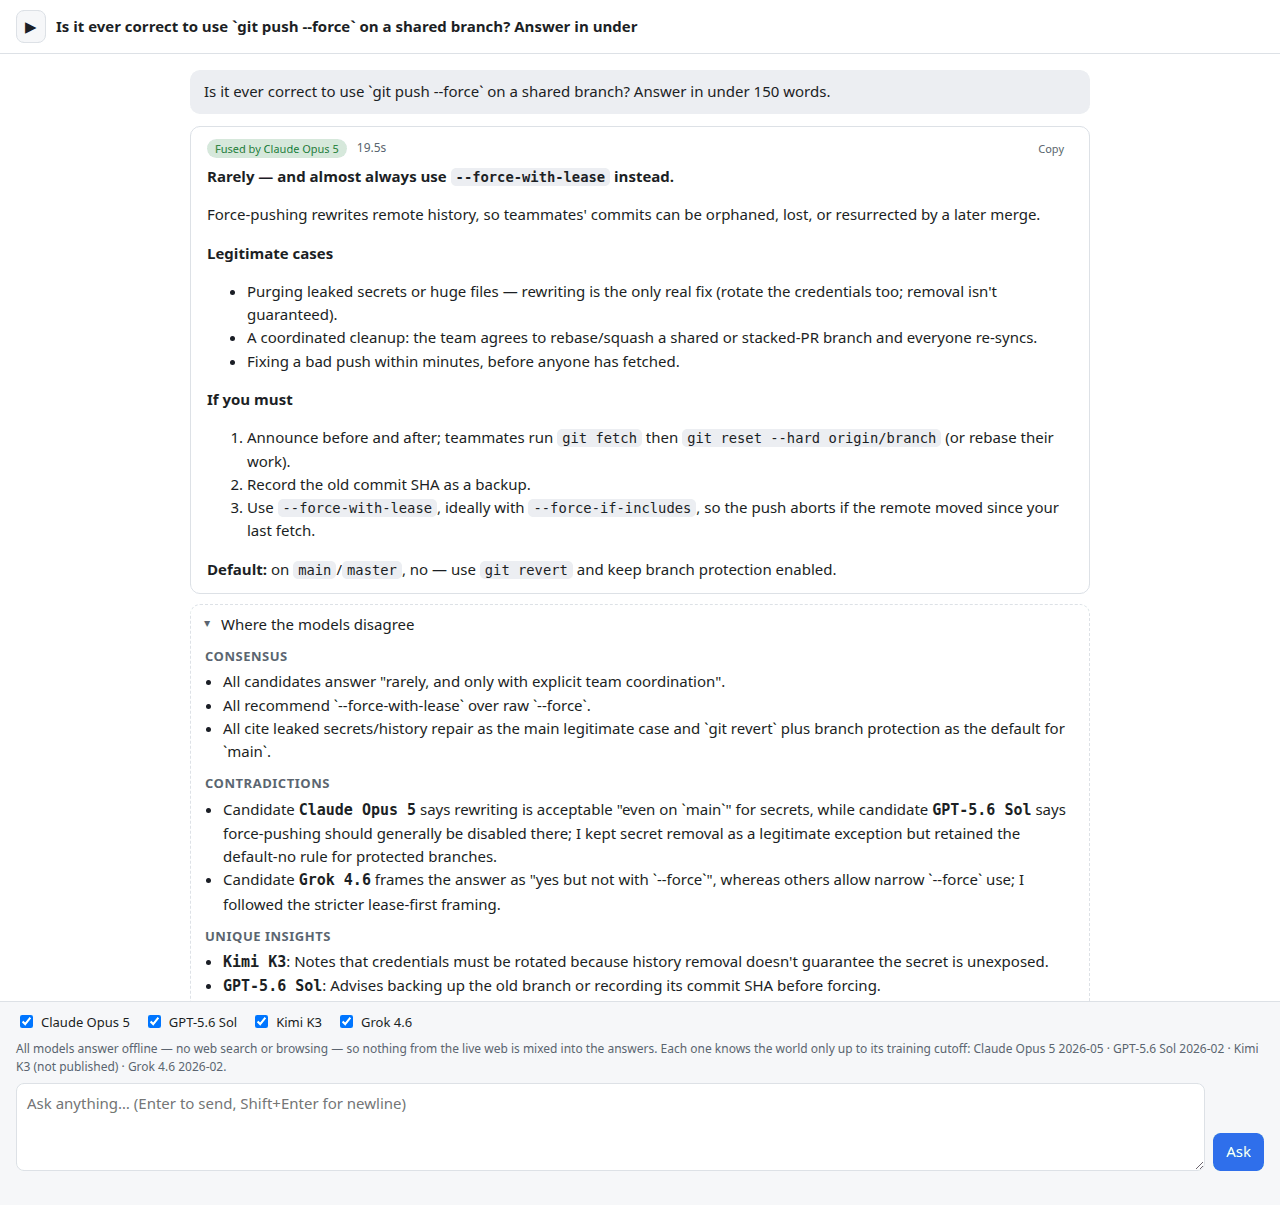
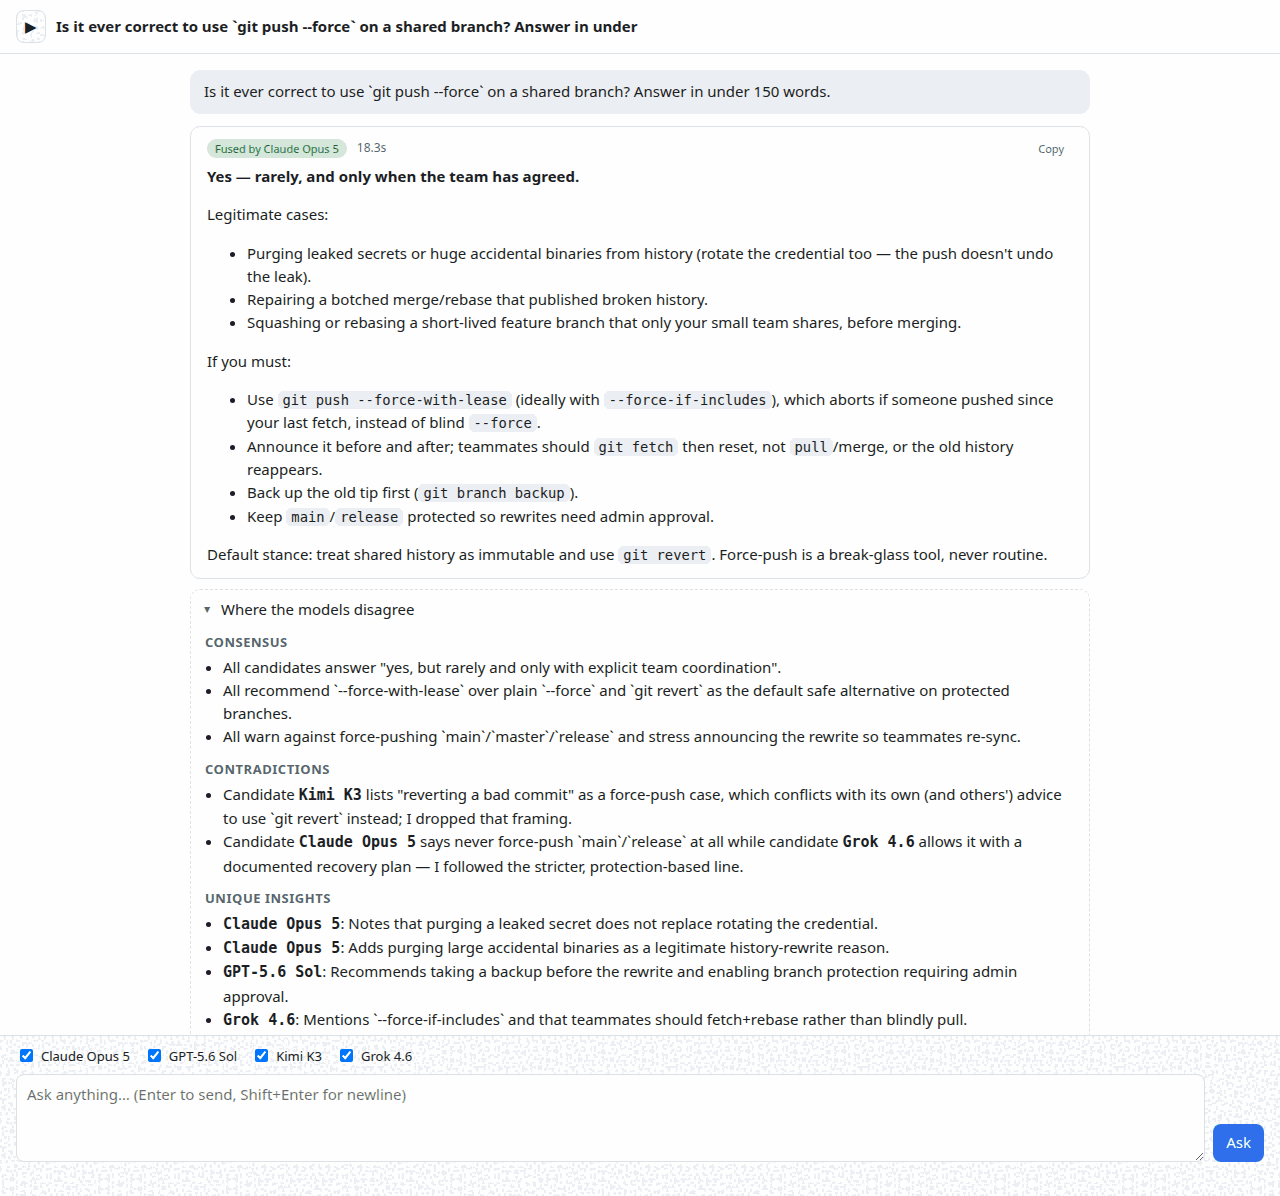
sync-docs skill: claim the README screenshot and the help baselines; pin the verified version
An audit for docs that exist but no pass ever reads found the screenshot:
it still showed the offline notice the composer lost yesterday, so it is
retaken here and gets an invariant with a criterion (web/ changed -> open the
image and compare). fixtures/help/ looked frozen by the fixtures rule but is
the one directory an upgrade is supposed to rewrite. And the version row that
had to be corrected last pass is now a rule: read the version after the
verification runs, because the CLIs update themselves in between.

Sync-rule-hits: screenshot-current

Claude-Session: https://claude.ai/code/session_01Mi2UJZKX3CHKEy7X66sZJ8

diff --git a/.claude/skills/sync-docs/SKILL.md b/.claude/skills/sync-docs/SKILL.md
@@ -23,7 +23,7 @@ config that owns the value.
 ## Scope
 
 **Living (edit in place):** `CLAUDE.md` · `README.md` · `SECURITY.md` · `CONTRIBUTING.md` ·
-`.github/` templates · `docs/RUNBOOK.md` · `docs/THREADS.md` · `.env.example` (comments are the config documentation) · `fixtures/README.md` ·
+`.github/` · `docs/RUNBOOK.md` · `docs/THREADS.md` · `docs/screenshot.png` · `.env.example` (comments are the config documentation) · `fixtures/README.md` ·
 `deploy/fusion.service` header · file-header comments in `src/` and `scripts/` (this repo's
 convention: subsystem rules live in the code that implements them) · this skill.
 
@@ -31,7 +31,7 @@ convention: subsystem rules live in the code that implements them) · this skill
 back) · `CHANGELOG.md` (`Unreleased` accumulates; a release turns it into a version heading).
 
 **Frozen — never edit in a sync:** `fixtures/*.ndjson` (captured CLI output — capture a new
-file instead) · `data/` (runtime, gitignored) · `.env` (secrets).
+file instead; `fixtures/help/` is the opposite, a baseline rewritten after each verified upgrade) · `data/` (runtime, gitignored) · `.env` (secrets).
 
 **Memory** (Claude Code's per-project memory directory, outside git): preferences,
 workflow lessons and pointers only — nothing derivable from the repo. Update an existing file
@@ -51,7 +51,9 @@ paths by hand.
 - `cli-upgrade-recapture` — if any of the four CLIs was upgraded (`npm run check-updates` lists
   installed-but-unverified CLIs and `--help-diff` shows new flags), `npm run smoke` must pass; a
   changed output format means a new fixture, a new row in `fixtures/README.md`, and parser + test
-  updates in the same commit. Premises a CLI upgrade can invalidate are re-tested, not assumed:
+  updates in the same commit. The CLIs update themselves: the version in the new row is the one
+  `check-updates` prints *after* the verification runs, and a changed `--help` is accepted with
+  `npm run check-updates -- --help-diff --update`. Premises a CLI upgrade can invalidate are re-tested, not assumed:
   no token deltas from kimi or `codex exec`; the account-language override; grok's
   `--disallowed-tools` not being a block and its `--json-schema` streaming as text deltas;
   codex's app-server schema (regenerated per version); `-p` not yet defaulting to `--bare`
@@ -66,6 +68,9 @@ paths by hand.
 - `release-triple` — at a release, `package.json` `version`, the git tag and the newest
   `CHANGELOG.md` heading are the same string, `Unreleased` is empty, and the tag and a GitHub
   release with the CHANGELOG section are pushed.
+- `screenshot-current` — if `web/` changed since the last sync, open `docs/screenshot.png` and
+  compare it with the UI; anything visible in it that moved or went away means a retake — from a
+  throwaway conversation, light theme, sidebar collapsed (the conversation list is the owner's).
 - `no-owner-facts` — the repo is public: nothing in the living set states as project truth what
   is only true of the owner's account, machine or paths ("this host", "this account", a clone
   path); generalize the condition instead. Fixtures keep their captured paths (owner's call).
